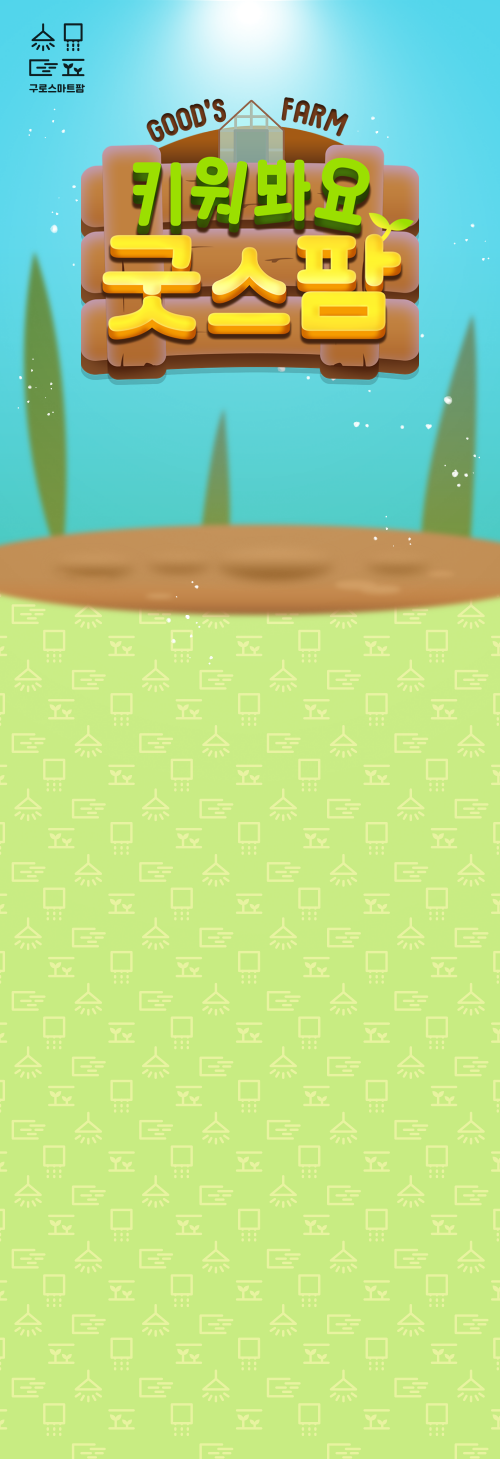
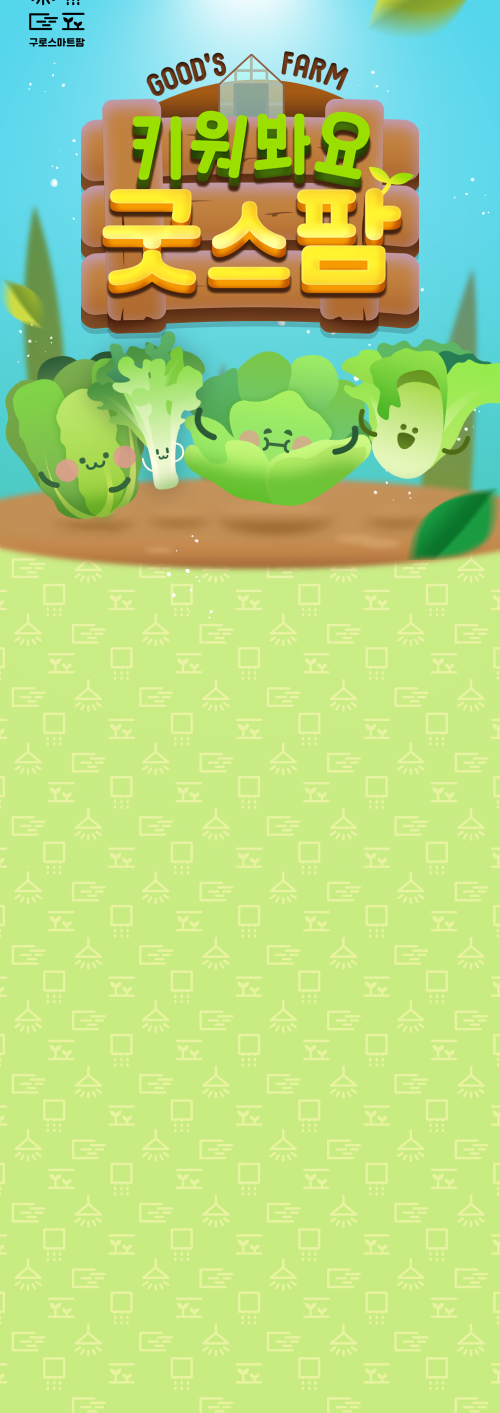
Style : Leaf, Landingbg

diff --git a/team_1/src/GameIntro/GameIntro.css b/team_1/src/GameIntro/GameIntro.css
@@ -9,7 +9,6 @@ html, body{
     max-width: 800px;
     background: #fff;
 
-
     font-family: Arial;
     text-align: center;
 }
@@ -26,7 +25,7 @@ html, body{
     max-width: 500px;
     max-height: 1000px;
     
-    display: block;
+    display: flex;
 
     background: url("https://i.ibb.co/P5CNNHk/introbg.png");
     background-repeat: no-repeat;
@@ -41,65 +40,73 @@ html, body{
 .Talk1{
     display: flex;
 
-    position: absolute;
-    
-    width: 382px;
-    height: 78px;
-    margin-top: 100px;
-    margin-bottom: 20px;
-    margin-left: auto;
+    max-width: 300px;
+    margin-left: 5%;
     margin-right: auto;
-
+    position: relative;
+    margin-top: 30%;
+  
+    border: 0;
 }
 
 .Talk2{
     display: flex;
 
-    position: absolute;
-    width: 458px;
-    height: 126px;
-    margin-top: 200px;
-    margin-bottom: 20px;
+    max-width: 350px;
+    margin-left: 5%;
+    margin-right: auto;
+    position: relative;
+    margin-top: %;
+  
+    border: 0;
 }
 
 .Talk3{
     display: flex;
 
-    position: absolute;
-    width: 365px;
-    height: 78px;   
-    margin-top: 350px;
-    margin-bottom: 20px;
+    max-width: 280px;
+    margin-left: 5%;
+    margin-right: auto;
+    position: relative;
+    margin-top: 5%;
+  
+    border: 0;
 }
 
 .Talk4{
     display: flex;
 
-    position: absolute;
-    width: 435px;
-    height: 153px;
-    margin-top: 450px;
-    margin-bottom: 20px;
+    max-width: 330px;
+    margin-left: 5%;
+    margin-right: auto;
+    position: relative;
+    margin-top: 7%;
+  
+    border: 0;
 }
 
 .Talk5{
     display: flex;
 
-    position: absolute;
-    width: 339px;
-    height: 78px;
-    margin-top: 600px;
-    margin-bottom: 20px;
+    max-width: 270px;
+    margin-left: 5%;
+    margin-right: auto;
+    position: relative;
+    margin-top: 5%;
+  
+    border: 0;
 }
 
 .Talk6{
     display: flex;
 
-    position: absolute;
-    width: 196px;
-    height: 74px;
-    margin-top: 700px;
-    margin-bottom: 20px;
+    max-width: 160px;
+    margin-left: 5%;
+    margin-right: auto;
+    position: relative;
+    margin-top: 7%;
+  
+    border: 0;
 }
 
 .Tembtn1{
@@ -107,14 +114,10 @@ html, body{
     position:relative;
 
     max-width: 500px;
-    width: 60%;
+    width: 100%;
+    left: 0px;
+    right: 0px;
     height: auto;
-    margin-left: auto;
-    margin-right: auto;
-    
+
     top: 80%;
-    bottom: 50%;
 }
-
-
-

diff --git a/team_1/src/Landing/Landing.css b/team_1/src/Landing/Landing.css
@@ -4,9 +4,10 @@ html, body{
   height: 100%;
   width: 100%;
 
-  display: flex;
+  display: block;
 
-  max-width: 500px;
+  max-width: 800px;
+  background: #fff;
 
   font-family: Arial;
   text-align: center;
@@ -34,6 +35,14 @@ html, body{
 
   position: relative;
 }
+
+/* .Leaf {
+  background-image: src="img/Leaf.png";
+  max-width: 100%;
+  height: 44%;
+  position: relative;
+  z-index: 0;
+} */ */
 
 .rec {
   width: 100%;
@@ -178,25 +187,13 @@ html, body{
   height: 100%;
   position: relative;
 }
-
 .TopBG_png1 {
   background: src="img/TopBG_png1.png";
   width: 100%;
   height: 100%;
-
   position: absolute;
   z-index: 3;
 }
-
- .Leaf {
-  background-image: src="img/Leaf.png";
-  width: 100%;
-  height: 100%;
-
-  position: absolute;
-  z-index: 2;
-} */
-
 /* .child-3 {
   background-color: green;
   width: 50px;

diff --git a/team_1/src/Loading/Loading.css b/team_1/src/Loading/Loading.css
@@ -12,6 +12,9 @@ html, body{
 
     font-family: Arial;
     text-align: center;
+    
+    
+
 }
 
 #root {
